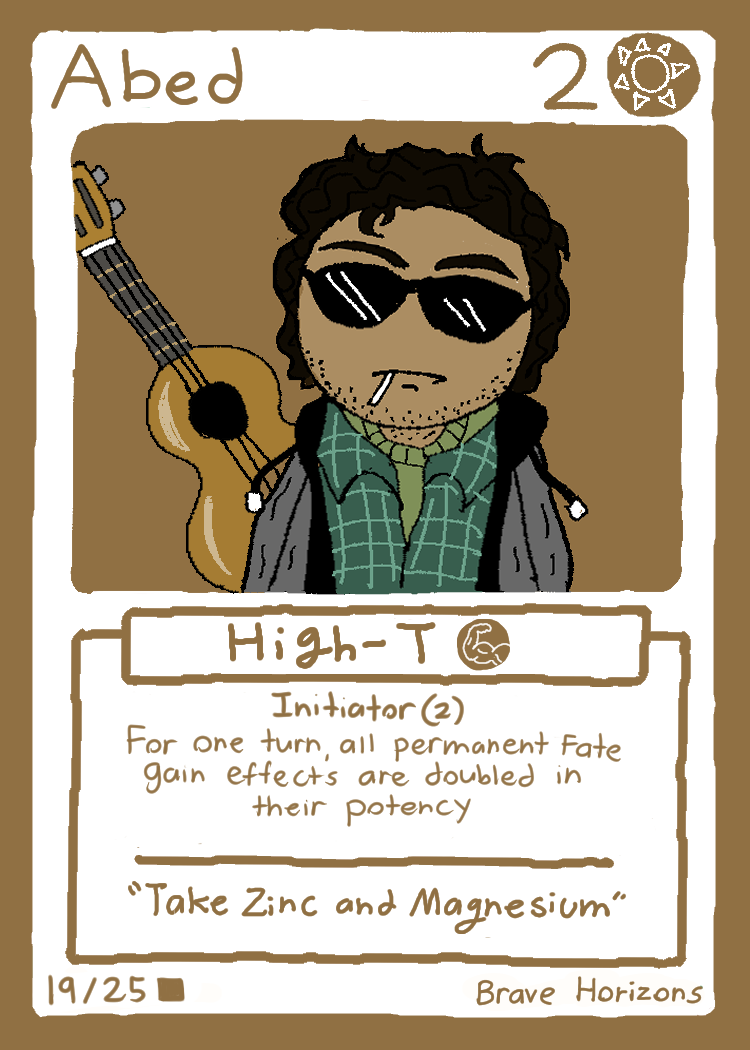
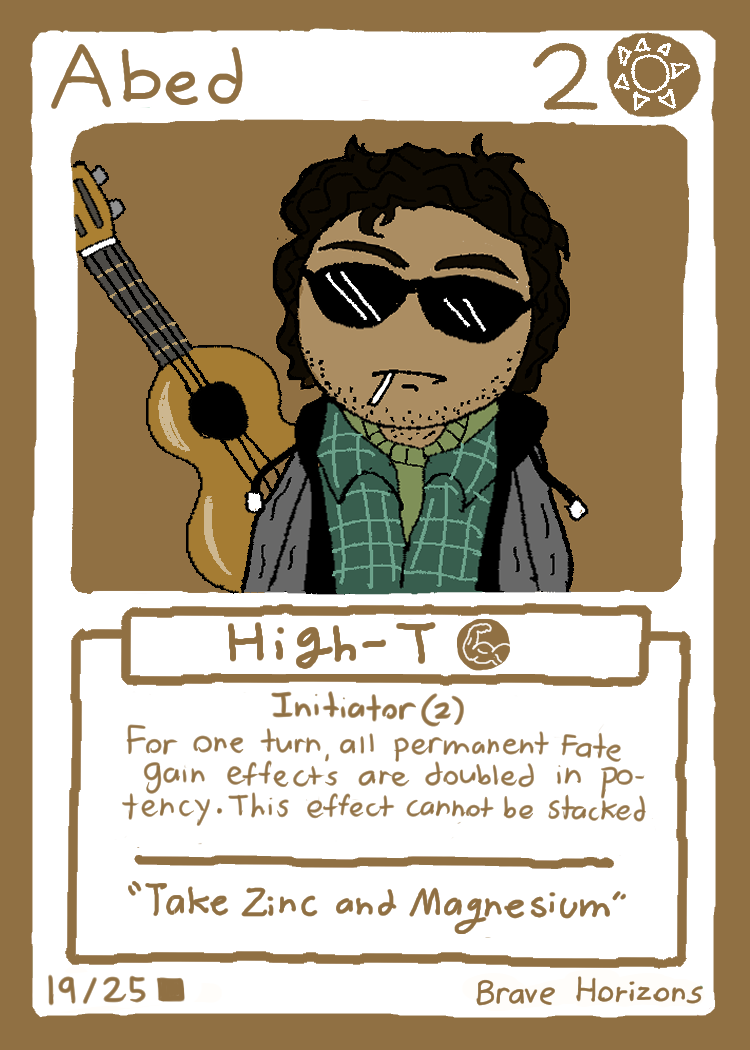
Publish multiplayer recovery and gameplay updates

Changed region(s): [[0.3067, 0.7314, 0.8587, 0.7924], [0.1533, 0.7619, 0.276, 0.7924]]

diff --git a/src/scripts/47-challenger-war-event.js b/src/scripts/47-challenger-war-event.js
@@ -58,11 +58,12 @@ async function pullRemoteState(){
   if(remoteAcknowledgedVersion<remoteWriteVersion)return pushRemoteState();
   remotePullBusy=true;const generation=remoteGeneration,uid=onlineIdentity().uid,writeVersion=remoteWriteVersion;
   try{
-    const r=await warfrontRequest('/api/warfront/state',{method:'GET'});
+    const r=await warfrontRequest('/api/warfront/state'+(remoteLastSuccess?'?revision='+acceptedRemoteRevision+'&archives='+encodeURIComponent((state.archives||[]).map(r=>r.mapCode).join(',')):''),{method:'GET'});
     if(generation!==remoteGeneration||onlineIdentity()?.uid!==uid)return false;
     if(writeVersion!==remoteWriteVersion||remotePushBusy||remotePushTimer)return false;
     if(r?.profile&&typeof window.fateApplyServerProfileStats==='function')window.fateApplyServerProfileStats(r.profile,{render:false});
-    if(r?.state){const noticeChanged=!!remoteError||!remoteLastSuccess;remoteLastSuccess=Date.now();remoteError='';const changed=adoptRemoteState(r.state);if(!changed&&noticeChanged)rerender();return changed;}
+    if(r?.state){const noticeChanged=!!remoteError||!remoteLastSuccess;remoteLastSuccess=Date.now();remoteError='';if(r.archivesUnchanged)r.state.archives=state.archives;const changed=adoptRemoteState(r.state);if(!changed&&noticeChanged)rerender();return changed;}
+    if(r?.unchanged){remoteLastSuccess=Date.now();if(remoteError){remoteError='';rerender();}return false;}
     if(r?.ok&&!r.state)scheduleRemotePush();
     return false;
   }catch(e){if(generation===remoteGeneration){remoteError=e.message;rerender();}return false;}
@@ -209,7 +210,7 @@ function awardIcon(id){const paths={fate:'<path d="M22 3 38 12v15c0 10-7 16-16 1
 function dispatchIcon(){return'<svg viewBox="0 0 96 96" aria-hidden="true"><path d="M18 72V35l30-18 30 18v37"/><path d="M30 72V43l18-11 18 11v29M13 72h70"/><path d="M38 53h20M38 62h20"/><circle cx="48" cy="45" r="3"/><path d="M24 26 13 15M72 26l11-11M48 17V5"/></svg>';}
 function archiveIcon(){return'<svg viewBox="0 0 112 128" aria-hidden="true"><path d="M15 24h34l9 10h39v76H15Z"/><path d="M15 43h82M31 61h50v32H31Z"/><path d="M40 72h32M40 82h25"/></svg>';}
 function warCanDeploy(z,t){const service=state.service?.[me().uid];return ['enrollment','active'].includes(state.status)&&(!service||service.team===t)&&(!service||service.matchIds.length<5)&&score(z).played<5&&(!z[t]||z[t].isAI);}
-function miniSeat(z,t,mine){const p=z[t],can=warCanDeploy(z,t)&&!mine&&!deploymentPending&&selectedTeam===t;if(!p||p.isAI)return'<button class="war2-seat team-'+t+' empty" '+(can?'onclick="joinWarEventZone(\''+z.id+'\',\''+t+'\')"':'disabled')+'>'+avatar(p)+'<span class="war3-seat-copy"><b>'+esc(p?.name||'Open post')+'</b><em>'+(deploymentPending?.id===z.id&&deploymentPending.team===t?'Deploying…':can?(p?.isAI?'Replace AI commander':'Claim this zone'):!selectedTeam?'Choose an alliance in Briefing':'Awaiting player')+'</em></span></button>';return'<div class="war2-seat team-'+t+'">'+avatar(p)+'<span class="war3-seat-copy"><b>'+esc(p.name)+'</b><em>'+score(z)[t]+' Victories · '+score(z)[t]+' Stars Contributed</em>'+stars(z,t)+'</span></div>';}
+function miniSeat(z,t,mine){const p=z[t],pending=deploymentPending?.id===z.id&&deploymentPending.team===t,can=warCanDeploy(z,t)&&!mine&&!deploymentPending;if(!p||p.isAI)return'<button class="war2-seat team-'+t+' empty" '+(can?'onclick="joinWarEventZone(\''+z.id+'\',\''+t+'\')"':'disabled')+'>'+avatar(pending?me():p)+'<span class="war3-seat-copy"><b>'+esc(pending?'Deploying '+me().name+'…':p?.name||'Open post')+'</b><em>'+(deploymentPending?.id===z.id&&deploymentPending.team===t?'Deploying…':can?(p?.isAI?'Replace AI commander':'Claim this zone'):!selectedTeam?'Choose an alliance in Briefing':'Awaiting player')+'</em></span></button>';return'<div class="war2-seat team-'+t+'">'+avatar(p)+'<span class="war3-seat-copy"><b>'+esc(p.name)+'</b><em>'+score(z)[t]+' Victories · '+score(z)[t]+' Stars Contributed</em>'+stars(z,t)+'</span></div>';}
 function zonePanel(z,mine){const m=meta(z),s=score(z),l=z.landscape||{},owned=mine&&mine.zone.id===z.id,queue=owned&&state.status==='active'&&z.a&&z.b&&s.played<5;return'<section class="war2-zone-panel war2-zone-command-screen war2-zone-command-v3"><header><div><span>FRONT '+m.no+' · OPERATIONAL DOSSIER</span><h2>'+esc(m.name)+'</h2></div><button onclick="closeWarDrawer()">×</button></header>'+'<div class="war2-zone-brief-grid"><aside class="war2-zone-theater"><img src="'+landscapeArt(l)+'" alt="" onerror="if(!this.dataset.fallback){this.dataset.fallback=1;this.src=\'ingamebackgrouds/'+esc(l.id||'igb1')+'.png\'}else{this.onerror=null;this.src=\'ingamebackgrouds/igb1.png\'}"><div><span>ASSIGNED THEATER</span><h3>'+esc(l.shortName||l.name||'Unknown')+'</h3><p>'+esc(l.description||'')+'</p></div></aside><main class="war2-zone-engagement"><div class="war2-series-banner"><span>BEST OF FIVE · '+s.played+' CONDUCTED</span><div><b>'+s.a+'</b><i>FRONT SCORE</i><b>'+s.b+'</b></div></div><div class="war2-stacked-duel">'+miniSeat(z,'a',mine)+'<div class="war2-clash-line"><span>'+esc(state.teams.a.name)+'</span><b>VERSUS</b><span>'+esc(state.teams.b.name)+'</span></div>'+miniSeat(z,'b',mine)+'</div></main></div><footer><button class="war2-secondary war2-details-button" onclick="openWarZoneHistory(\''+z.id+'\')">OPEN BATTLE LEDGER · '+s.played+'/5</button>'+(owned?'<span class="war2-deck-rule">CHALLENGER DECKS ONLY · FORFEIT CONCEDES THE FRONT 0–5</span><button class="war2-primary" onclick="enterWarEventQueue(\''+z.id+'\')" '+(queue&&!z.activeMatch?'':'disabled')+'>'+(z.activeMatch?'ENGAGEMENT UNDERWAY':s.played>=5?'FRONT SETTLED':'SELECT DECK & DEPLOY')+'</button>':z.activeMatch?'<span class="war2-spectator">A teammate may spectate live</span>':'')+'</footer></section>';}
 function awardPanel(){return'<section class="war2-achievements"><header><div><span>FIELD HONORS · LIVE COMMAND BOARD</span><h2>Warfront Commendations</h2></div><button onclick="closeWarDrawer()">×</button></header><div class="war2-achievement-intro"><b>THREE DISTINCTIONS · SIX DECISIVE STARS</b><span>Current leaders across all active fronts</span></div><div class="war2-achievement-list">'+achievements().map((a,i)=>'<article class="award-'+a.id+' '+(a.leader?'awarded':'')+'"><div class="war2-award-number">0'+(i+1)+'</div><i>'+awardIcon(a.id)+'</i><div><span>+2 WAR STARS</span><h3>'+a.name+'</h3><p>'+a.copy+'</p></div><aside>'+(a.leader?avatar(a.leader):'<b>—</b>')+'<strong>'+(a.leader?esc(a.leader.name):a.tied?'Currently tied':'Awaiting a commander')+'</strong><em>'+esc(a.display)+'</em></aside></article>').join('')+'</div></section>';}
 function playerRows(ps){return'<div class="war2-player-report">'+(ps.length?ps.map(p=>'<article class="team-'+p.team+'">'+avatar(p,true)+'<div class="war2-player-identity"><b>'+esc(p.name)+'</b><span>'+esc(meta({id:p.zoneId}).name)+' · '+p.matches+' played</span></div><dl class="war2-player-bests"><div><dt>'+Math.max(0,+p.highestFate||0)+'</dt><dd>PEAK FATE</dd></div><div><dt>+'+Math.max(0,+p.highestDifferential||0)+'</dt><dd>BEST DIFF.</dd></div><div><dt>'+Math.max(0,+p.highestConsolidations||0)+'</dt><dd>CONS.</dd></div><div><dt>'+duration(p.fastest)+'</dt><dd>FASTEST</dd></div></dl></article>').join(''):'<div class="war2-empty"><b>No troops deployed</b></div>')+'</div>';}
@@ -221,7 +222,7 @@ function reportObjective(z){const m=meta(z),s=score(z);return'<button class="war
 function finalTacticalMap(r){return'<header class="war2-topbar war3-final-topbar"><button class="war2-brief-back" onclick="leaveLastWarMap()">‹ WAR RESULT</button><div class="war2-title"><span>TACTICAL</span><h1>MAP</h1></div><div class="war2-score team-a"><span>'+esc(r.teams.a.name)+'</span><b>'+r.score.a+'</b></div><div class="war2-center"><span>WAR</span><b>COMPLETED</b></div><div class="war2-score team-b"><b>'+r.score.b+'</b><span>'+esc(r.teams.b.name)+'</span></div><nav><button onclick="openWarAchievements()"><i>✦</i><span>Honors</span></button><button onclick="openWarMatches()"><i>▶</i><span>Matches</span></button><button onclick="openWarRecord()"><i>≡</i><span>Record</span></button><button onclick="openWarArchive()"><i>▱</i><span>Archive</span></button></nav></header><section class="war2-map war3-final-map"><div class="war2-front front-a"></div><div class="war2-front front-b"></div><div class="war2-grid"></div>'+r.zones.map(reportObjective).join('')+'</section>';}
 function archivePanel(){const r=state.archives.find(x=>x.mapCode===archiveCode);if(r)return recordPanel(r);const total=state.archives.reduce((n,x)=>n+(x.matches||0),0),latest=state.archives[0];return'<section class="war3-archive"><aside class="war3-archive-vault"><span>STRATEGIC RECORDS OFFICE</span><h2>Campaign<br>Archive</h2><div class="war3-vault-mark">'+archiveIcon()+'</div><dl><div><dt>'+state.archives.length+'</dt><dd>SEALED CAMPAIGNS</dd></div><div><dt>'+total+'</dt><dd>RECORDED BATTLES</dd></div></dl><p>AUTHORIZED PERSONNEL · COMPLETE AFTER-ACTION FILES</p></aside><main class="war3-archive-files"><header><div><span>WARFRONT REGISTRY</span><h3>'+(latest?'Select a campaign file':'No sealed campaigns')+'</h3></div><button onclick="closeWarDrawer()">×</button></header><div class="war3-file-stack">'+(state.archives.length?state.archives.map((r,i)=>'<button onclick="openWarArchiveRecord(\''+esc(r.mapCode)+'\')"><span class="war3-file-tab">FILE '+String(i+1).padStart(2,'0')+'</span><div><time>'+new Date(r.completedAt).toLocaleDateString()+'</time><b>'+esc(r.mapCode)+'</b><em>'+(r.winner==='draw'?'DRAW':esc(r.teams[r.winner].name)+' VICTORY')+'</em></div><strong>'+r.score.a+'<i>—</i>'+r.score.b+'</strong><small>'+(r.matches||0)+' BATTLES<br>OPEN DOSSIER →</small></button>').join(''):'<div class="war3-archive-empty"><b>THE VAULT IS EMPTY</b><span>Completed campaigns will be sealed and indexed here.</span></div>')+'</div></main></section>';}
 function liveRecordPanel(){const s=totals(),played=state.zones.reduce((n,z)=>n+score(z).played,0),settled=state.zones.filter(z=>score(z).played>=5).length,roster=participation().sort((a,b)=>String(a.team).localeCompare(String(b.team)));return'<section class="war3-record"><header><div><span>GENERAL STAFF · LIVE INTELLIGENCE</span><h2>War Record</h2></div><button onclick="closeWarDrawer()">×</button></header><div class="war3-record-body"><aside class="war3-record-command"><span>CAMPAIGN PROGRESS</span><strong>'+played+'<i>/25</i></strong><em>MATCHUPS CONDUCTED</em><div class="war3-record-score"><b>'+s.a+'</b><span>'+esc(state.teams.a.name)+'<i>WAR STARS</i>'+esc(state.teams.b.name)+'</span><b>'+s.b+'</b></div><dl><div><dt>'+players().length+'</dt><dd>COMMANDERS</dd></div><div><dt>'+settled+'</dt><dd>FRONTS SETTLED</dd></div></dl></aside><main class="war3-record-roster"><div class="war3-roster-heading"><span>FIELD ROSTER</span></div>'+playerRows(roster)+'</main></div></section>';}
-function allMatches(){const rows=[];const add=(zones,mapCode)=>zones.forEach(z=>(z.matches||[]).forEach((m,i)=>rows.push({...m,zoneId:z.id,zoneName:meta(z).name,mapCode,landscape:z.landscape||null,a:m.participants?.a||z.a,b:m.participants?.b||z.b,number:i+1})));add(state.zones,state.mapCode);(state.archives||[]).forEach(r=>add(r.zones||[],r.mapCode));return rows.sort((a,b)=>(+b.completedAt||0)-(+a.completedAt||0));}
+function allMatches(includeArchives=false){const rows=[];const add=(zones,mapCode)=>zones.forEach(z=>(z.matches||[]).forEach((m,i)=>rows.push({...m,zoneId:z.id,zoneName:meta(z).name,mapCode,landscape:z.landscape||null,a:m.participants?.a||z.a,b:m.participants?.b||z.b,number:i+1})));if(includeArchives||state.status!=='results')add(state.zones,state.mapCode);if(includeArchives)(state.archives||[]).filter(r=>r.mapCode!==state.mapCode).forEach(r=>add(r.zones||[],r.mapCode));return rows.sort((a,b)=>(+b.completedAt||0)-(+a.completedAt||0));}
 function matchCard(m){return'<button class="war2-match-card" onclick="openWarMatchDetail(\''+esc(m.id)+'\')"><span class="war2-match-serial">BATTLE <b>'+String(m.number).padStart(2,'0')+'</b></span><div class="war2-match-route"><article class="team-a">'+avatar(m.a,true)+'<span><b>'+esc(m.a?.name||'Team I')+'</b><em>'+esc(state.teams.a.name)+'</em></span></article><strong><i>★</i><b>'+esc(m.winnerTeam==='a'?m.a?.name:m.b?.name)+'</b><small>VICTORIOUS</small></strong><article class="team-b">'+avatar(m.b,true)+'<span><b>'+esc(m.b?.name||'Team II')+'</b><em>'+esc(state.teams.b.name)+'</em></span></article></div><footer><span>'+esc(m.zoneName)+'</span><time>'+new Date(m.completedAt).toLocaleString()+'</time><b>'+(m.replay?'REPLAY FILED':'REPORT ONLY')+'</b><i>VIEW DOSSIER →</i></footer></button>';}
 function ledgerCard(m){
   const winner=m.winnerTeam==='a'?m.a:m.b,num=v=>Math.max(0,+v||0),stats=t=>m.playerStats&&m.playerStats[t]||t===m.winnerTeam&&m.stats||{},metrics=t=>{const s=stats(t);return'<dl class="war6-ledger-stats"><div><dt>'+num(s.totalFateGenerated)+'</dt><dd>TOTAL FATE</dd></div><div><dt>+'+num(s.fateDifferential)+'</dt><dd>FATE DIFF.</dd></div><div><dt>'+num(s.consolidations)+'</dt><dd>CONS.</dd></div><div><dt>'+duration(num(s.durationMs))+'</dt><dd>TIME</dd></div></dl>';};
@@ -232,7 +233,7 @@ function matchPanel(){const rows=allMatches().slice(0,50),fronts=new Set(rows.ma
 function viewedWarZones(){return postWarMap&&state.lastResult?.zones?.length?state.lastResult.zones:state.zones;}
 function viewedWarMapCode(){return postWarMap&&state.lastResult?.mapCode?state.lastResult.mapCode:state.mapCode;}
 function zoneHistoryPanel(){const zones=viewedWarZones(),z=zones.find(x=>x.id===selectedZoneId)||zones[0],m=meta(z),s=score(z),rows=(z.matches||[]).map((match,i)=>({...match,zoneId:z.id,zoneName:m.name,mapCode:viewedWarMapCode(),a:m.participants?.a||z.a,b:m.participants?.b||z.b,number:i+1})),longName=String(m.name||'').length>15?' class="war5-long-zone-name"':'';return'<section class="war2-zone-history"><header><img class="war5-history-landscape" src="'+landscapeArt(z.landscape||{})+'" alt="" onerror="this.style.display=\'none\'"><button class="back" onclick="openWarZone(\''+z.id+'\')">‹</button><div'+longName+'><span>ZONE '+m.no+' · MATCHUP DOSSIER</span><h2>'+esc(m.name)+'</h2></div><button onclick="closeWarDrawer()">×</button></header><div class="war2-zone-history-score"><article class="team-a">'+avatar(z.a,true)+'<div><span>'+esc(state.teams.a.name)+'</span><b>'+esc(z.a?.name||'Open post')+'</b><em>'+s.a+' Stars Contributed</em></div></article><div class="war2-ledger-tally"><span class="war2-ledger-score"><i>'+s.a+'</i><small>CURRENT SCORE</small><i>'+s.b+'</i></span><b>'+s.played+'/5</b><span>BATTLES CONDUCTED</span></div><article class="team-b"><div><span>'+esc(state.teams.b.name)+'</span><b>'+esc(z.b?.name||'Open post')+'</b><em>'+s.b+' Stars Contributed</em></div>'+avatar(z.b,true)+'</article></div><div class="war2-zone-history-facts"><span><b>'+esc(z.landscape?.shortName||'Classified')+'</b>Fixed landscape</span><span><b>'+s.a+'–'+s.b+'</b>Current score</span><span><b>'+Math.max(0,5-s.played)+'</b>Battles remaining</span><span><b>'+esc(s.bonus?state.teams[s.bonus].name:'Unsettled')+'</b>Front control</span></div><div class="war2-zone-history-list">'+(rows.length?rows.map(ledgerCard).join(''):'<div class="war2-empty"><b>No battles conducted</b><span>This dossier will populate after the first matchup.</span></div>')+'</div></section>';}
-function findMatch(id){return allMatches().find(m=>m.id===id);}
+function findMatch(id){return allMatches(true).find(m=>m.id===id);}
 function matchDetailPanel(){const m=findMatch(selectedMatchId);if(!m)return matchPanel();const a=m.playerStats&&m.playerStats.a||{},b=m.playerStats&&m.playerStats.b||{},num=v=>Math.max(0,+v||0),winner=m.winnerTeam==='a'?m.a:m.b,total=num(a.totalFateGenerated)+num(b.totalFateGenerated),diff=Math.max(num(a.fateDifferential),num(b.fateDifferential)),elapsed=Math.max(num(a.durationMs),num(b.durationMs),num(m.stats&&m.stats.durationMs));const combatant=(p,s,t)=>'<article class="team-'+t+'">'+avatar(p)+'<h3>'+esc(p&&p.name||'Unknown commander')+'</h3><span>'+esc(state.teams[t].name)+'</span><dl><div><dt>'+num(s.totalFateGenerated)+'</dt><dd>FATE GENERATED</dd></div><div><dt>+'+num(s.fateDifferential)+'</dt><dd>DIFFERENTIAL</dd></div><div><dt>'+num(s.consolidations)+'</dt><dd>CONSOLIDATIONS</dd></div><div><dt>'+duration(s.durationMs||elapsed)+'</dt><dd>TIME</dd></div></dl></article>';return'<section class="war2-match-detail war3-match-report"><header><img class="war7-report-landscape" src="'+landscapeArt(m.landscape||{})+'" alt="" onerror="this.style.display=\'none\'"><div><span>'+esc(m.mapCode)+' · '+esc(m.zoneName)+'</span><h2>Match '+m.number+' Report</h2><em>'+new Date(m.completedAt).toLocaleString()+'</em></div></header><button type="button" class="war-report-close" aria-label="Close match report" title="Back to matches" onclick="openWarMatches()">×</button><div class="war3-report-summary"><span>OFFICIAL RESULT</span><h3>'+esc(winner&&winner.name||'Commander')+' Victory</h3>'+(m.forfeitSweep?'<p class="war-report-forfeit">Forfeited</p>':'')+'<div><b>'+total+'<small>COMBINED FATE</small></b><b>+'+diff+'<small>DECISIVE DIFFERENTIAL</small></b><b>'+duration(elapsed)+'<small>MATCH LENGTH</small></b></div></div><div class="war2-match-versus">'+combatant(m.a,a,'a')+'<strong><i>★</i><span>VICTOR</span><b>'+esc(winner&&winner.name||'Commander')+'</b></strong>'+combatant(m.b,b,'b')+'</div><div class="war2-match-meta"><span>Front: '+esc(m.zoneName)+'</span><span>Battle '+m.number+' of 5</span><span>'+(m.replay?'Replay recorded':'Stat report only')+'</span></div>'+(m.replay?'<button class="war2-replay-launch" onclick="openWarReplay(\''+esc(m.id)+'\')">WATCH TACTICAL REPLAY</button>':'<button class="war2-replay-launch" disabled>REPLAY NOT RECORDED</button>')+'</section>';}
 function replayPanel(){return'';}
 function banPanel(z,mine){if(!mine||mine.zone.id!==z.id)return'';const t=mine.team,chosen=z.bans[t],q=banSearch.toLowerCase(),list=cards().filter(c=>!q||String(c.name||'').toLowerCase().includes(q)||String(c.id).includes(q)).slice(0,120);return'<section class="war2-ban-editor"><header><div><span>'+esc(state.teams[t].name)+' · '+chosen.length+'/3</span><h2>Ban three cards</h2></div><button onclick="closeWarDrawer()">×</button></header><p>Your opponent cannot queue with a selected card in the next match.</p><input type="search" value="'+esc(banSearch)+'" placeholder="Search cards" oninput="searchWarBanCards(this.value)"><div class="war2-card-grid">'+list.map(c=>'<button class="'+(chosen.includes(String(c.id))?'selected':'')+'" onclick="toggleWarBanCard(\''+z.id+'\',\''+esc(c.id)+'\')"><span>#'+esc(c.id)+'</span><b>'+esc(c.name)+'</b><em>'+esc(c.type||c.aff||'Card')+'</em></button>').join('')+'</div><footer><span>'+(chosen.length===3?'Ready to lock':'Select '+(3-chosen.length)+' more')+'</span><button onclick="lockWarBans(\''+z.id+'\')" '+(chosen.length===3?'':'disabled')+'>Lock bans</button></footer></section>';}
@@ -254,7 +255,7 @@ window.leaveLastWarMap=()=>{warSfx('mapClose','war-result-return',180);postWarMa
 window.openLastWarReport=()=>{if(!state.lastResult)return;postWarMap=false;drawer='summary';archiveCode=state.lastResult.mapCode;rerender();};
 window.openWarBriefing=()=>{warSfx('mapClose','map-close',180);warPage='briefing';drawer='';rerender();};
 window.selectWarEventTeam=t=>{lifecycle();if(!['enrollment','active'].includes(state.status)||!TEAMS[t])return;if(!state.zones.some(z=>warCanDeploy(z,t))){typeof playSfx==='function'&&playSfx('blocked');window.toast&&toast(state.teams[t].name+' has no open posts.');return;}warSfx('team','team-'+t,140);selectedTeam=t;rerender();};
-window.getFateWarfrontCurrentPlayerTeam=()=>seat(me().uid)?.team||null;window.selectWarEventZone=id=>window.openWarZone(id);window.openWarZone=id=>{if(viewedWarZones().some(z=>z.id===id)){warSfx('zone','zone-'+id,120);selectedZoneId=id;drawer='zone';rerender();}};window.openWarZoneHistory=id=>{if(viewedWarZones().some(z=>z.id===id)){warSfx('dossier','zone-history-'+id,160);selectedZoneId=id;drawer='zone-history';rerender();}};window.openWarAchievements=()=>{warSfx('commendation','commendations',300);drawer='awards';rerender();};window.openWarMatches=()=>{warSfx('dossier','matches',160);drawer='matches';rerender();};window.openWarMatchDetail=id=>{warSfx('dossier','match-'+id,160);selectedMatchId=id;drawer='match-detail';rerender();};window.openWarRecord=()=>{warSfx('dossier','record',160);drawer='record';rerender();};window.openWarArchive=()=>{warSfx('archive','archive',180);drawer='archive';archiveCode='';rerender();};window.openWarArchiveRecord=c=>{warSfx('archive','archive-'+c,180);drawer='archive';archiveCode=c;rerender();};window.closeWarDrawer=()=>{warSfx('close','drawer-close',120);if(replayTicker)clearInterval(replayTicker);replayTicker=null;replayView=null;drawer='';archiveCode='';banSearch='';rerender();};window.openWarBanEditor=id=>{warSfx('dossier','bans',160);selectedZoneId=id;drawer='bans';rerender();};window.searchWarBanCards=v=>{banSearch=String(v||'');rerender();};
+window.getFateWarfrontCurrentPlayerTeam=()=>seat(me().uid)?.team||null;window.selectWarEventZone=id=>window.openWarZone(id);window.openWarZone=id=>{if(viewedWarZones().some(z=>z.id===id)){warSfx('zone','zone-'+id,120);selectedZoneId=id;drawer='zone';rerender();void pullRemoteState();}};window.openWarZoneHistory=id=>{if(viewedWarZones().some(z=>z.id===id)){warSfx('dossier','zone-history-'+id,160);selectedZoneId=id;drawer='zone-history';rerender();}};window.openWarAchievements=()=>{warSfx('commendation','commendations',300);drawer='awards';rerender();};window.openWarMatches=()=>{warSfx('dossier','matches',160);drawer='matches';rerender();};window.openWarMatchDetail=id=>{warSfx('dossier','match-'+id,160);selectedMatchId=id;drawer='match-detail';rerender();};window.openWarRecord=()=>{warSfx('dossier','record',160);drawer='record';rerender();};window.openWarArchive=()=>{warSfx('archive','archive',180);drawer='archive';archiveCode='';rerender();};window.openWarArchiveRecord=c=>{warSfx('archive','archive-'+c,180);drawer='archive';archiveCode=c;rerender();};window.closeWarDrawer=()=>{warSfx('close','drawer-close',120);if(replayTicker)clearInterval(replayTicker);replayTicker=null;replayView=null;drawer='';archiveCode='';banSearch='';rerender();};window.openWarBanEditor=id=>{warSfx('dossier','bans',160);selectedZoneId=id;drawer='bans';rerender();};window.searchWarBanCards=v=>{banSearch=String(v||'');rerender();};
 function replayBoardAt(rp,step){
   const progress=(rp.actions||[]).slice(0,Math.max(0,step)),snapshot=[...progress].reverse().find(x=>x&&x.kind==='snapshot'&&Array.isArray(x.board));
   if(snapshot)return snapshot.board;
@@ -452,7 +453,7 @@ window.joinWarEventZone=async(id,t)=>{
   if(!z||!TEAMS[t])return notify('Choose a valid command post.');
   if(seat(p.uid))return notify('You are already deployed to a zone.');
   if(!warCanDeploy(z,t))return notify('This post is unavailable, or your five campaign matches are complete.');
-  if(selectedTeam!==t)return notify('Choose this alliance in Briefing first.');
+  selectedTeam=t;
   if(simulationSession){
     z[t]={...p,joinedAt:Date.now()};save({remote:false});rerender();
     warSfx('deploy','deployment-'+id,300);return notify('Deployed to '+meta(z).name+'.');
@@ -660,6 +661,6 @@ window.cancelMatchmaking=()=>{if(window.FATE_PENDING_WAR_MATCH){window.fateAutho
 window.openWarRules=()=>{warSfx('dossier','rules',160);drawer='rules';rerender();};
 window.fateClanEventChatCommand=c=>{const cmd=String(c||'').trim().toLowerCase();if(cmd==='/warfront human'){runWarfrontServerCommand('human');return true;}if(cmd==='/event deployment'){startFreshDeployment();return true;}if(cmd==='/eventsimulation'){simulation();return true;}if(cmd==='/event end simulation'){endSplashSimulation();return true;}if(cmd==='/eventrandom'){randomEvent();return true;}if(cmd==='/eventreset'){resetSimulation();return true;}if(cmd==='/match replay'){simulateMatchReplay();return true;}if(cmd==='/archive simulation'){archiveSimulation();return true;}if(cmd==='/archiveclear'){clearArchive();return true;}if(cmd==='/medals')return testMedals(true);if(cmd==='/medalsreset')return testMedals(false);if(cmd==='/event end'){runWarfrontServerCommand('end');return true;}if(cmd!=='/event 1 2 3')return false;runWarfrontServerCommand('start');return true;};
 window.fateClanEventReportMatch=p=>{p=p||{};lifecycle();const z=state.zones.find(x=>x.id===p.zoneId);if(state.status!=='active'||!z||!['a','b'].includes(p.winnerTeam))return false;const id=String(p.matchId||'war-'+Date.now()),existing=z.matches.find(m=>m.id===id);if(existing){if(p.replay&&!existing.replay){existing.replay=clone(p.replay);save();}return false;}if(score(z).played>=5||(!p.participants&&(!z.a||!z.b)))return false;const legacy={totalFateGenerated:Math.max(0,+p.totalFateGenerated||+p.stats?.totalFateGenerated||0),fateDifferential:Math.max(0,+p.fateDifferential||+p.stats?.fateDifferential||0),durationMs:Math.max(0,+p.durationMs||+p.stats?.durationMs||0),consolidations:Math.max(0,+p.consolidations||+p.stats?.consolidations||0)},source=p.playerStats||p.stats?.players||{},clean=s=>({totalFateGenerated:Math.max(0,+s?.totalFateGenerated||+s?.totalFate||0),fateDifferential:Math.max(0,+s?.fateDifferential||0),durationMs:Math.max(0,+s?.durationMs||0),consolidations:Math.max(0,+s?.consolidations||0)}),playerStats={a:clean(source.a),b:clean(source.b)};if(!source[p.winnerTeam])playerStats[p.winnerTeam]=legacy;const replay=p.replay&&Array.isArray(p.replay.actions)?clone(p.replay):null;z.activeMatch=null;z.matches.push({id,participants:clone(p.participants||{a:z.a,b:z.b}),winnerTeam:p.winnerTeam,completedAt:+p.completedAt||Date.now(),stats:legacy,playerStats,bans:clone(z.bans),replayId:p.replayId||null,replay,forfeitSweep:!!p.forfeitSweep,starValue:Math.max(1,Math.min(5,+p.starValue||1))});z.bans={a:[],b:[]};z.bansLocked={a:false,b:false};save();warSfx(+p.starValue>=5?'commendation':'deploy','result-'+id,700);if(allComplete()){if(!simulationSession)pushRemoteState().then(()=>pullRemoteState());else finish('all-matchups',{remote:false});}rerender();return true;};
-window.getFateClanEventState=()=>{lifecycle();return clone(state);};window.forceFinishFateClanEvent=()=>{if(state.status==='active')runWarfrontServerCommand('end');};window.renderChWarEventTab=render;window.addEventListener('storage',e=>{if(e.key===storageKey(KEY)){state=load();loadedStorageKey=storageKey(KEY);rerender();}});window.addEventListener('fate-online-auth',()=>{const next=storageKey(KEY);if(next!==loadedStorageKey){remoteGeneration++;acceptedRemoteRevision=-1;remoteLastSuccess=0;remoteError='';simulationSession=false;loadedStorageKey=next;state=load();drawer='';archiveCode='';selectedTeam=null;rerender();}pullRemoteState();});window.addEventListener('focus',pullRemoteState);document.addEventListener?.('visibilitychange',()=>{if(!document.hidden)pullRemoteState();});document.readyState==='loading'?document.addEventListener('DOMContentLoaded',installReplayIsolationGuard,{once:true}):installReplayIsolationGuard();setTimeout(()=>{if(!simulationSession&&localStorage.getItem(storageKey(SIMBACKUP)))resetSimulation();else pullRemoteState();},700);let backgroundPollTicks=0;setInterval(()=>{if(document.hidden)return;const watching=document.getElementById('s-challenger')?.classList.contains('active')&&document.querySelector('#ch-content > .ch-tab-pane.active[data-tab="war"]');if(watching||++backgroundPollTicks>=4){backgroundPollTicks=0;pullRemoteState();}},1000);
+window.getFateClanEventState=()=>{lifecycle();return clone(state);};window.forceFinishFateClanEvent=()=>{if(state.status==='active')runWarfrontServerCommand('end');};window.renderChWarEventTab=render;window.addEventListener('storage',e=>{if(e.key===storageKey(KEY)){state=load();loadedStorageKey=storageKey(KEY);rerender();}});window.addEventListener('fate-online-auth',()=>{const next=storageKey(KEY);if(next!==loadedStorageKey){remoteGeneration++;acceptedRemoteRevision=-1;remoteLastSuccess=0;remoteError='';simulationSession=false;loadedStorageKey=next;state=load();drawer='';archiveCode='';selectedTeam=null;rerender();}pullRemoteState();});window.addEventListener('focus',pullRemoteState);document.addEventListener?.('visibilitychange',()=>{if(!document.hidden)pullRemoteState();});document.readyState==='loading'?document.addEventListener('DOMContentLoaded',installReplayIsolationGuard,{once:true}):installReplayIsolationGuard();setTimeout(()=>{if(!simulationSession&&localStorage.getItem(storageKey(SIMBACKUP)))resetSimulation();else pullRemoteState();},700);let backgroundPollTicks=0;setInterval(()=>{if(document.hidden)return;const watching=document.getElementById('s-challenger')?.classList.contains('active')&&document.querySelector('#ch-content > .ch-tab-pane.active[data-tab="war"]');if(watching||++backgroundPollTicks>=8){backgroundPollTicks=0;pullRemoteState();}},500);
 window.addEventListener('keydown',e=>{if(e.key!=='Escape')return;const warTab=document.querySelector('.ch-tab[data-tab="war"].active'),screen=document.getElementById('s-challenger');if(!warTab||!screen||getComputedStyle(screen).display==='none')return;e.preventDefault();e.stopImmediatePropagation();if(drawer==='zone-history')return window.openWarZone(selectedZoneId);if(drawer==='match-detail')return window.openWarMatches();if(drawer)return window.closeWarDrawer();if(warPage==='map')return window.openWarBriefing();},true);
 })();

diff --git a/src/scripts/18-online-rooms.js b/src/scripts/18-online-rooms.js
@@ -3427,6 +3427,7 @@
         definitions.push(...ACHILLES_ADAPTIVE_TOKEN_DEFINITIONS);
       }
       if(typeof WOJCIECH_PIEROGI_COUNTER !== 'undefined' && WOJCIECH_PIEROGI_COUNTER) definitions.push(WOJCIECH_PIEROGI_COUNTER);
+      if(typeof WHISPER_OF_THE_HEART_TOKEN !== 'undefined' && WHISPER_OF_THE_HEART_TOKEN) definitions.push(WHISPER_OF_THE_HEART_TOKEN);
       definition = definitions.find(function(candidate){ return String(candidate?.id || '') === String(next.id || ''); }) || null;
     }catch(e){}
     if(definition){
@@ -4096,7 +4097,7 @@
   };
   function phase7ChooseCommand(matches, label, options){
     const choices = Array.isArray(matches) ? matches.filter(Boolean) : [];
-    if(choices.length === 1) return phase7SubmitCommand(choices[0], options);
+    if(choices.length === 1 && options?.forceChoice !== true) return phase7SubmitCommand(choices[0], options);
     if(!choices.length){
       if(window.toast) toast('That action is not legal in the authoritative match.');
       return false;
@@ -4141,6 +4142,41 @@
             button.dataset.phase7CommandRevision = String(phase7CurrentUiSession.view?.revision ?? phase7CurrentUiSession.view?.state?.revision ?? '');
           });
         }
+      });
+    });
+    return true;
+  }
+  function phase7ChooseTamaCoordinator(commands){
+    const choices = Array.isArray(commands) ? commands.filter(Boolean) : [];
+    const view = phase7CurrentUiSession.view;
+    const entries = choices.map(function(command){
+      const entry = phase7FindProjectedEntry(view, command?.payload?.sourceIid);
+      return entry?.zone === 'board' ? entry : null;
+    }).filter(Boolean);
+    if(!entries.length || typeof window.showBoardTargetPicker !== 'function'){
+      if(window.toast) toast('No eligible Coordinator is available for Concrete Roads.');
+      return false;
+    }
+    withOnlinePromptBypass(gameState(), function(){
+      window.showBoardTargetPicker({
+        pickerClass:'phase7-authoritative-board-picker phase7-tama-coordinator-picker',
+        title:'Tama City: Concrete Roads',
+        prompt:'Choose one Coordinator you control to copy and discard.',
+        entries,
+        zones:[0,1,2],
+        minCount:1,
+        maxCount:1,
+        immediate:true,
+        confirmLabel:'Copy Coordinator',
+        viewerPlayerIndex:Number(view?.playerIndex),
+        showZoneTitles:true
+      }, function(selected){
+        const iid = String(selected?.[0]?.card?.iid || selected?.[0]?.iid || '');
+        const command = choices.find(function(candidate){
+          return String(candidate?.payload?.sourceIid || '') === iid;
+        });
+        if(command) phase7SubmitCommand(command);
+        else if(window.toast) toast('That Coordinator is no longer available.');
       });
     });
     return true;
@@ -4775,8 +4811,11 @@
     return phase7CurrentCommands().some(function(command){
       if(!['SET_CARD','SET_ADAPTIVE_TOKEN','CONSOLIDATE_CARD'].includes(String(command?.type || ''))) return false;
       if(String(command?.payload?.cardIid || '') !== iid) return false;
-      if(!phase7SameDestination(command?.payload?.destination, destination)) return false;
-      return command.type !== 'CONSOLIDATE_CARD' || !(command?.payload?.tributeIids || []).length;
+      if(command.type === 'CONSOLIDATE_CARD' && (command?.payload?.tributeIids || []).length){
+        const target = gameState()?.board?.[Number(destination.z)]?.[Number(destination.r)]?.[Number(destination.c)];
+        return !!target && command.payload.tributeIids.map(String).includes(String(target.iid || ''));
+      }
+      return phase7SameDestination(command?.payload?.destination, destination);
     });
   }
   function phase7CommandLabel(command){
@@ -7209,7 +7248,7 @@
             '<div class="p1"><span>' + esc(players[0]?.name || 'Player 1') + '</span><strong>' + (Number(finalMorale[0]) || 0) + '</strong></div>' +
             '<div class="win-seal-mark" aria-hidden="true">♥</div>' +
             '<div class="p2"><span>' + esc(players[1]?.name || 'Player 2') + '</span><strong>' + (Number(finalMorale[1]) || 0) + '</strong></div>' +
-          '</div><div class="win-seal-origin">In each uncontrolled zone, half the Fate difference is dealt as Morale damage (rounded down).</div>';
+          '</div><div class="win-seal-origin">In each uncontrolled zone, 33% of the Fate difference is dealt as Morale damage (rounded down).</div>';
         zones.appendChild(morale);
       }
       zoneResults.forEach(function(result){
@@ -16944,7 +16983,7 @@
             return command?.type === 'ACTIVATE_LANDSCAPE'
               && String(g.landscapeId || '') === 'igb17';
           });
-          return Promise.resolve(phase7ChooseCommand(commands, 'Create Shizuku Token'));
+          return Promise.resolve(phase7ChooseTamaCoordinator(commands));
         }
         const args = arguments;
         return sendOptimisticAction('HAND_ACTION', {

diff --git a/src/scripts/render-v2/09-hand-drag-bridge.js b/src/scripts/render-v2/09-hand-drag-bridge.js
@@ -296,6 +296,13 @@
     ));
   }
 
+  function irvineCharacterTribute(cell, z, cp){
+    const character = typeof isCardCharacterForRules === 'function' ? isCardCharacterForRules(cell, cp) : cell.type !== 'Supporter';
+    return character && (G.board[z] || []).some(row => (row || []).some(source =>
+      source && source.owner === cp && typeof cardActsAsPassive === 'function'
+      && cardActsAsPassive(source, '49') && !isSupporterAuraSuppressed(source)));
+  }
+
   function availableReinforcementFor(card){
     if(!card || isDirectSetCard(card) || typeof G === 'undefined' || !G || !G.board) return Infinity;
     if(G._linaFreeIids && G._linaFreeIids.has(card.iid)) return Infinity;
@@ -311,8 +318,9 @@
             if(typeof canUseAsConsolidationTribute === 'function' && !canUseAsConsolidationTribute(cell, cp, z, r, c)) return;
             const eligibleTribute = usesCharacterTributes
               ? (typeof isCardCharacterForRules === 'function' ? isCardCharacterForRules(cell, cp) : cell.type !== 'Supporter')
-              : cell.type === 'Supporter';
+              : cell.type === 'Supporter' || irvineCharacterTribute(cell, z, cp);
             if(eligibleTribute){
+              if(usesCharacterTributes || cell.type !== 'Supporter'){ total += 1; return; }
               let value = 1;
               try {
                 value = typeof getSupportReinforcementValue === 'function' ? getSupportReinforcementValue(cell) : (Number(cell.reinforcement) || 1);
@@ -709,7 +717,7 @@
       && cardUsesCharacterConsolidationTributes(card);
     const eligibleTribute = usesCharacterTributes
       ? (typeof isCardCharacterForRules === 'function' ? isCardCharacterForRules(boardCard, G.currentPlayer) : boardCard.type !== 'Supporter')
-      : boardCard.type === 'Supporter';
+      : boardCard.type === 'Supporter' || irvineCharacterTribute(boardCard, Number(hit.z), G.currentPlayer);
     return eligibleTribute ? 'valid' : 'invalid';
   }
 

diff --git a/src/scripts/05-gameplay-core.js b/src/scripts/05-gameplay-core.js
@@ -1418,10 +1418,10 @@ window.resolveCaliforniqueHandExpiryForPlayer = resolveCaliforniqueHandExpiryFor
 
 function getHighTPotencyCount(playerIndex) {
   if(!G || !Array.isArray(G._bh19HighTStatuses)) return 0;
-  return G._bh19HighTStatuses.filter(function(status){
+  return G._bh19HighTStatuses.some(function(status){
     return Number(status.playerIndex) === Number(playerIndex)
       && Number(status.turn) === Number(G.turn);
-  }).length;
+  }) ? 1 : 0;
 }
 window.getHighTPotencyCount = getHighTPotencyCount;
 
@@ -1477,7 +1477,7 @@ function activateHighTForTurn(card, playerIndex) {
   if(!Array.isArray(G._bh19HighTStatuses)) G._bh19HighTStatuses = [];
   const sourceIid = String(card.iid || card.id || 'bh19');
   if(G._bh19HighTStatuses.some(function(status){
-    return String(status.sourceIid) === sourceIid && Number(status.turn) === Number(G.turn);
+    return Number(status.playerIndex) === Number(playerIndex) && Number(status.turn) === Number(G.turn);
   })) return false;
   G._bh19HighTStatuses.push({
     type:'PERMANENT_FATE_GAIN_POTENCY',
@@ -10917,7 +10917,7 @@ function checkWin() {
         '<div class="p1"><span>'+escapeHtml(G.players[0].name)+'</span><strong>'+Number(morale[0] || 0)+'</strong></div>'+
         '<div class="win-seal-mark" aria-hidden="true">♥</div>'+
         '<div class="p2"><span>'+escapeHtml(G.players[1].name)+'</span><strong>'+Number(morale[1] || 0)+'</strong></div>'+
-      '</div><div class="win-seal-origin">In each uncontrolled zone, half the Fate difference is dealt as Morale damage (rounded down).</div>';
+      '</div><div class="win-seal-origin">In each uncontrolled zone, 33% of the Fate difference is dealt as Morale damage (rounded down).</div>';
     wz.appendChild(sealEl);
   }
   zResults.forEach(({z,s0,s1,ctrl})=>{

diff --git a/electron/main.js b/electron/main.js
@@ -368,19 +368,20 @@ ipcMain.handle('fate:get-performance-info', (event) => {
 ipcMain.handle('fate:fly-api-request', async (_event, request = {}) => {
   const route = String(request.route || '');
   const method = String(request.method || 'GET').toUpperCase();
-  if(!route.startsWith('/api/') || !['GET','POST'].includes(method)){
+  if(!(route.startsWith('/api/') || /^\/v3\/beta\/matchmaking\/(enter|status|leave)$/.test(route)) || !['GET','POST'].includes(method)){
     return {ok:false, status:400, error:'Invalid Fly API request'};
   }
   const headers = {'accept':'application/json'};
   const authorization = String(request.authorization || '');
   if(authorization.startsWith('Bearer ')) headers.authorization = authorization;
+  for(const key of ['x-fate-client-version','x-fate-client-session'])if(request.headers?.[key])headers[key]=String(request.headers[key]);
   const init = {method, headers};
   if(method === 'POST'){
     headers['content-type'] = 'application/json';
     init.body = JSON.stringify(request.body || {});
   }
   try{
-    const response = await fetch(DEFAULT_FLY_AUTHORITY_API_URL + route, init);
+    const response = await fetch(DEFAULT_FLY_AUTHORITY_API_URL + route, {...init,signal:AbortSignal.timeout(10000)});
     const text = await response.text();
     let data = null;
     try{ data = text ? JSON.parse(text) : {}; }catch(_err){}

diff --git a/src/scripts/27-morale-pressure-ui.js b/src/scripts/27-morale-pressure-ui.js
@@ -1167,7 +1167,7 @@
     const max = Math.max(1, Number(system?.maxMorale || 200));
     const morale = Math.max(0, Number(system?.morale?.[seat] || 0));
     return '<header><span>Morale</span><b>' + morale + '/' + max + '</b></header>' +
-      '<div class="mp-morale-rule active"><b>Every 2 turns, starting Turn 4</b><span>In each zone you do not control, half the Fate difference is dealt as Morale damage (rounded down).</span></div>' +
+      '<div class="mp-morale-rule active"><b>Every 2 turns, starting Turn 4</b><span>In each zone you do not control, 33% of the Fate difference is dealt as Morale damage (rounded down).</span></div>' +
       '<div class="mp-morale-rule ' + (morale <= max * .8 ? 'active' : '') + '"><b>80% Morale</b><span>Maximum 2 consolidations per turn.</span></div>' +
       '<div class="mp-morale-rule ' + (morale <= max * .6 ? 'active' : '') + '"><b>60% Morale</b><span>Your normal draw phase occurs every other personal turn.</span></div>' +
       '<div class="mp-morale-rule ' + (morale <= max * .4 ? 'active' : '') + '"><b>40% Morale</b><span>At the end of each of your turns, discard 1 random card from your hand.</span></div>' +

diff --git a/index.html b/index.html
@@ -658,7 +658,7 @@
 <script src="src/scripts/46-bh21-hooks.js?v=1788372001"></script>
   <script src="src/scripts/25-profile-view-v2.js?v=2026090701"></script>
 <script src="src/scripts/09-challenger-mode.js?v=2026090501"></script>
-<script src="src/scripts/47-challenger-war-event.js?v=2026090604"></script>
+<script src="src/scripts/47-challenger-war-event.js?v=20260910-responsive"></script>
 <script src="src/scripts/49-warfront-zone-voice-hook.js?v=2026090304"></script>
 <script src="src/scripts/09a-card-information-5-lore.js?v=1784293501"></script>
 <script src="src/scripts/09-challenger-lore.js?v=1788000201"></script>
@@ -678,7 +678,7 @@
   if(window.__fateOnlineModuleLoaderInstalled) return;
   window.__fateOnlineModuleLoaderInstalled = true;
   var modules = [
-    './src/scripts/15-online-auth.js?v=2026090604',
+    './src/scripts/15-online-auth.js?v=20260910-responsive',
     './src/scripts/16-online-core.js?v=2026090501',
     './src/scripts/17-online-social.js?v=1788000401',
     './src/scripts/18-online-rooms.js?v=20260909-engineer-field&sync=20260909-engineer-field',

diff --git a/src/scripts/15-online-auth.js b/src/scripts/15-online-auth.js
@@ -344,7 +344,13 @@ async function flyApiRequest(route, options={}){
     ? (window.fateAuthorityV3Beta?.apiBaseUrl || 'https://fates-entwined-main.fly.dev')
     : authorityHttpBaseUrl();
   let response;
-  try{response = await fetch(baseUrl + route, init);}
+  try{
+    if(route.startsWith('/api/warfront/') && baseUrl==='https://fates-entwined-main.fly.dev' && window.FateElectronFlyApi?.request){
+      if(options.signal?.aborted)throw new Error('Warfront request cancelled');
+      const result=await window.FateElectronFlyApi.request({route,method:init.method,authorization:headers.authorization,body:options.body});
+      response={ok:result.ok,status:result.status,text:async()=>result.text||result.error||'',json:async()=>result.data};
+    }else response = await fetch(baseUrl + route, init);
+  }
   catch(error){
     // The installed app can recover a renderer transport failure through its
     // existing native bridge, using the same account and production authority.

diff --git a/src/scripts/01-data-and-state.js b/src/scripts/01-data-and-state.js
@@ -535,8 +535,8 @@ const CARDS = [
     flavor:'"In that fleeting moment with Cynthia, at the pinnacle of his entire existence...Jimmy seethed."',img:'bh18.png?v=20260830a'},
   {id:'bh19',name:'Abed',ability:'High-T',type:'Initiator',aff:'reality',
     fate:2,cost:2,rarity:'square',set:'brave_horizons',
-    effect:'For one turn, all permanent Fate gain effects are doubled in their potency.',
-    flavor:'"Take Zinc and Magnesium"',img:'bh19.png?v=20260824a'},
+    effect:'For one turn, all permanent Fate gain effects are doubled in potency. This effect cannot be stacked.',
+    flavor:'"Take Zinc and Magnesium"',img:'bh19.png?v=20260910a'},
   {id:'bh20',name:'Makenna (Bird Cult)',ability:'Thousand Year Bird Cult',type:'Initiator',aff:'expanded_worlds',
     fate:4,cost:1,rarity:'triangle',set:'brave_horizons',
     effect:'Extend the game by two turns.',

diff --git a/src/scripts/09-challenger-mode.js b/src/scripts/09-challenger-mode.js
@@ -560,7 +560,7 @@ const AI_ONLY_RANDOM_DECKS = [
     id: 'ai_zsofias_patience',
     baseStrategy: 'ai_zsofias_patience',
     name: "Zsofia's Patience",
-    description: 'Fund two Abeds and Howard together around Zsofia by turn ten, focus Fate gains on her, protect her with Havano, then recycle Cook Islands Duelist.',
+    description: 'Fund one Abed and Howard together around Zsofia by turn ten, focus Fate gains on her, protect her with Havano, then recycle Cook Islands Duelist.',
     theme: 'AI Only - Zsofia Burst and Morale',
     faceCardId: '89',
     displayCardIds: ['89','bh19','03','64','79'],
